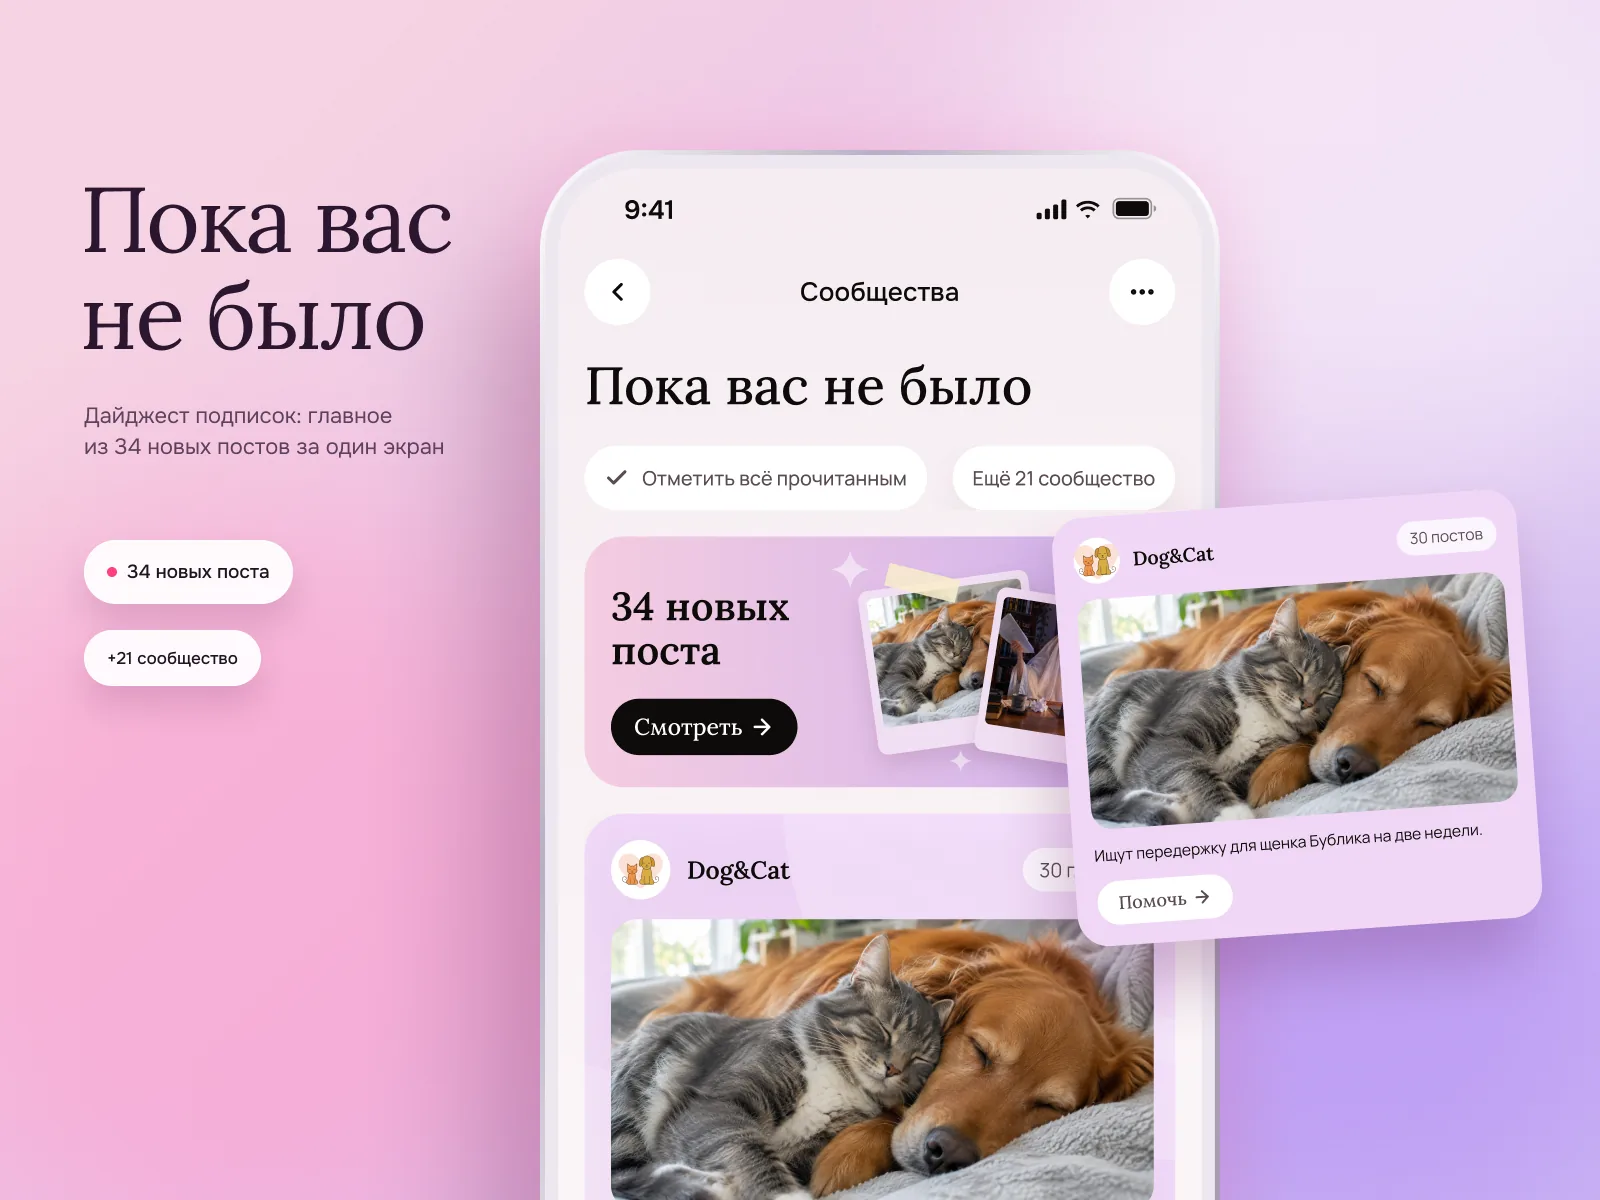
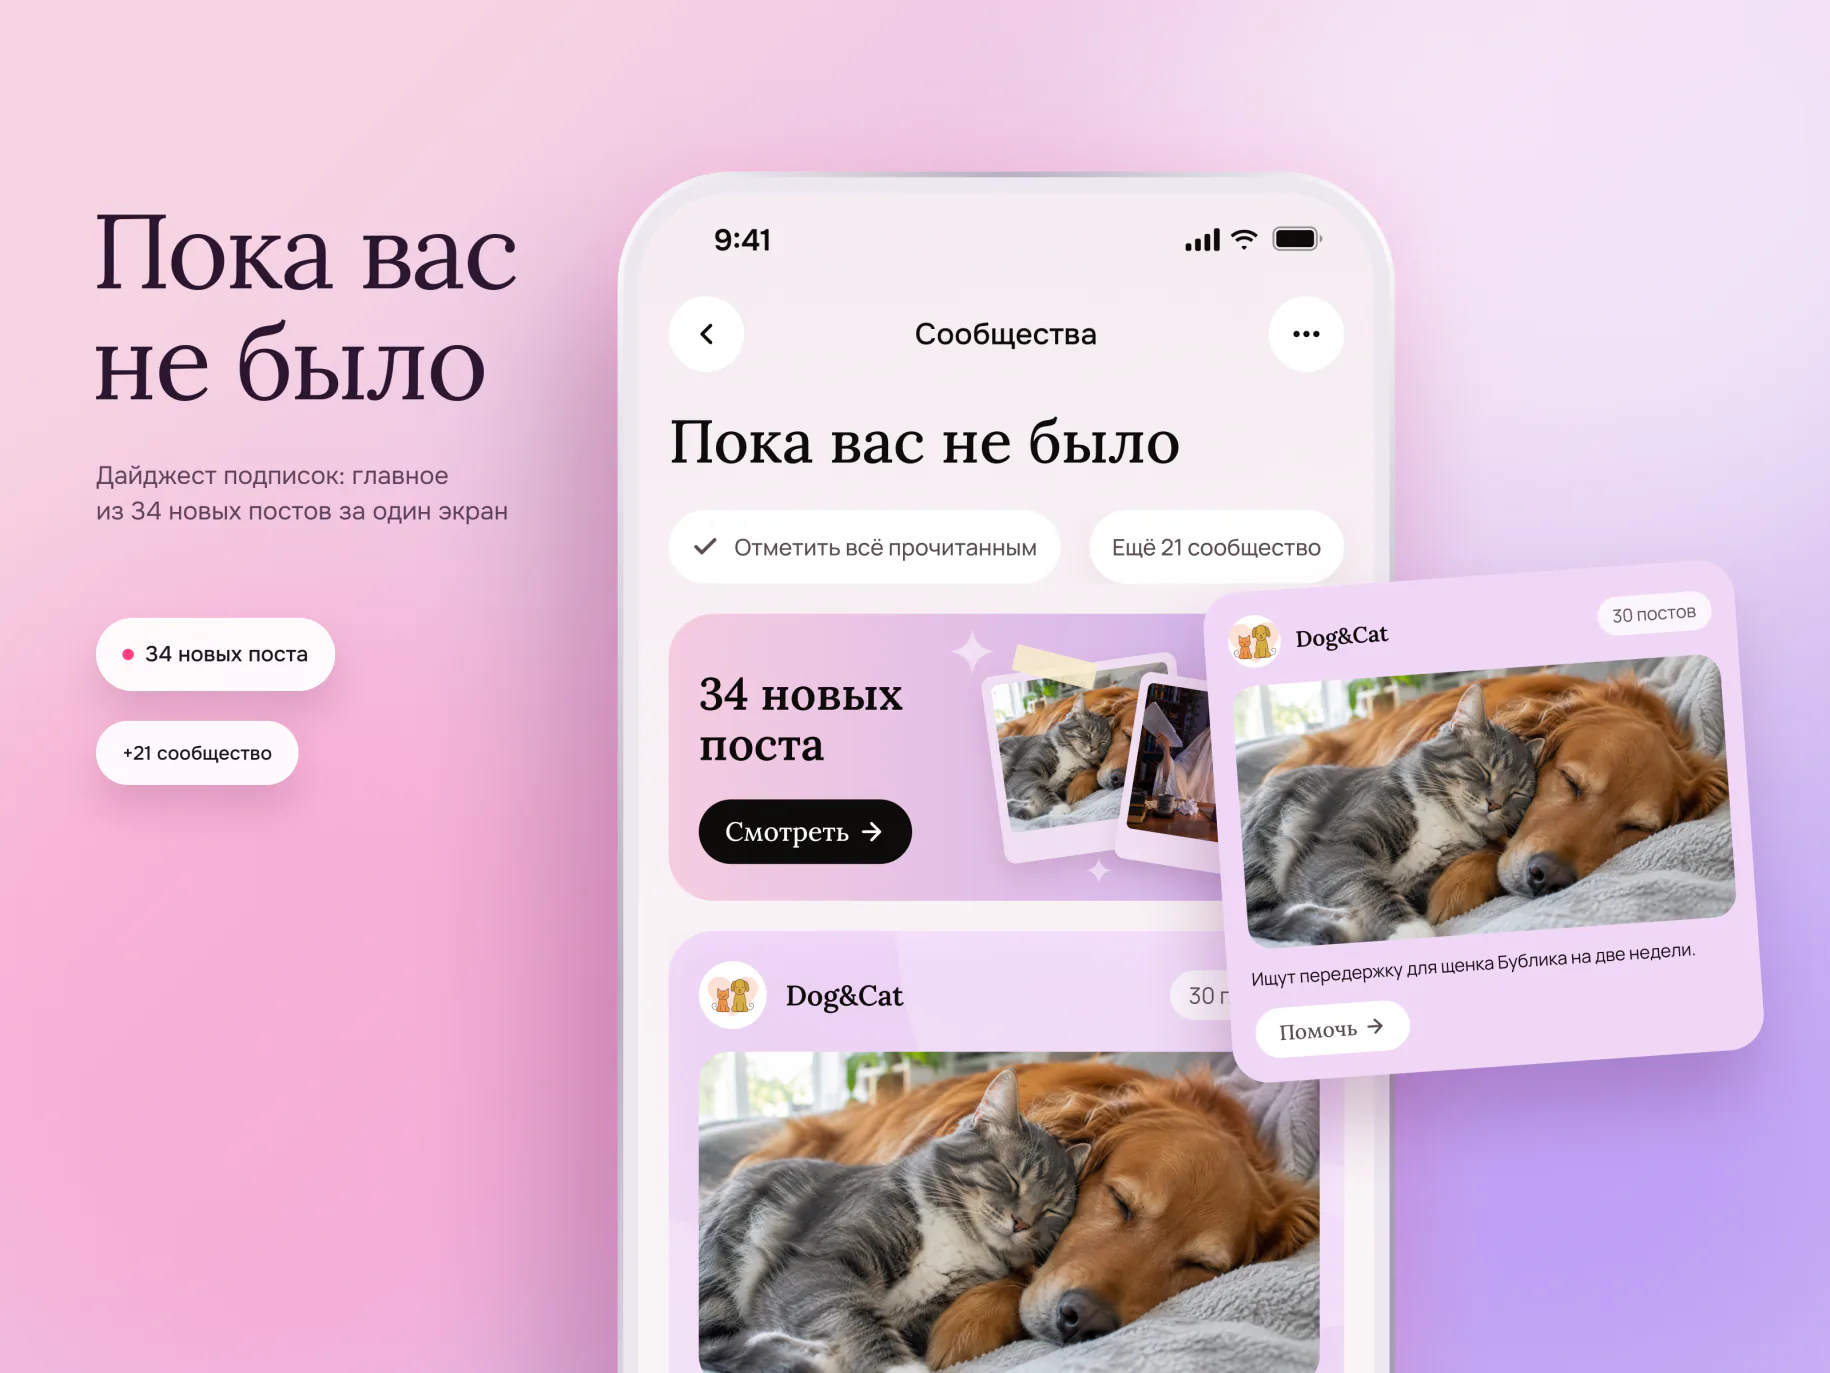
Концепты: мокапы «Сообществ» из экспорта 2x — 800/1200/1830px, резче на ретине

diff --git a/koncepty.html b/koncepty.html
@@ -45,11 +45,11 @@
     <section class="stack stack--24 w-914" id="soobshchestva">
       <div class="kon-set">
         <div class="kon-shots kon-shots--split">
-          <div class="pic"><img src="assets/img/koncepty/soobshchestva/mokap-1.webp" srcset="assets/img/koncepty/soobshchestva/mokap-1-800.webp 800w, assets/img/koncepty/soobshchestva/mokap-1.webp 1600w" sizes="(max-width: 960px) 100vw, 914px" width="1600" height="1200" loading="lazy" alt="Три экрана сообществ в изометрии: дайджест подписок, ИИ-помощник и страница бани"></div>
+          <div class="pic"><img src="assets/img/koncepty/soobshchestva/mokap-1.webp" srcset="assets/img/koncepty/soobshchestva/mokap-1-800.webp 800w, assets/img/koncepty/soobshchestva/mokap-1-1200.webp 1200w, assets/img/koncepty/soobshchestva/mokap-1.webp 1830w" sizes="(max-width: 960px) 100vw, 914px" width="1600" height="1200" loading="lazy" alt="Три экрана сообществ в изометрии: дайджест подписок, ИИ-помощник и страница бани"></div>
           <div class="kon-more" id="soobshchestva-more">
             <div>
-              <div class="pic"><img src="assets/img/koncepty/soobshchestva/mokap-2.webp" srcset="assets/img/koncepty/soobshchestva/mokap-2-800.webp 800w, assets/img/koncepty/soobshchestva/mokap-2.webp 1600w" sizes="(max-width: 960px) 100vw, 914px" width="1600" height="1200" loading="lazy" alt="ИИ-помощник подбирает бани из сообществ по запросу"></div>
-              <div class="pic"><img src="assets/img/koncepty/soobshchestva/mokap-3.webp" srcset="assets/img/koncepty/soobshchestva/mokap-3-800.webp 800w, assets/img/koncepty/soobshchestva/mokap-3.webp 1600w" sizes="(max-width: 960px) 100vw, 914px" width="1600" height="1200" loading="lazy" alt="Экран «Пока вас не было» с дайджестом подписок и вынесенной карточкой поста"></div>
+              <div class="pic"><img src="assets/img/koncepty/soobshchestva/mokap-2.webp" srcset="assets/img/koncepty/soobshchestva/mokap-2-800.webp 800w, assets/img/koncepty/soobshchestva/mokap-2-1200.webp 1200w, assets/img/koncepty/soobshchestva/mokap-2.webp 1830w" sizes="(max-width: 960px) 100vw, 914px" width="1600" height="1200" loading="lazy" alt="ИИ-помощник подбирает бани из сообществ по запросу"></div>
+              <div class="pic"><img src="assets/img/koncepty/soobshchestva/mokap-3.webp" srcset="assets/img/koncepty/soobshchestva/mokap-3-800.webp 800w, assets/img/koncepty/soobshchestva/mokap-3-1200.webp 1200w, assets/img/koncepty/soobshchestva/mokap-3.webp 1830w" sizes="(max-width: 960px) 100vw, 914px" width="1600" height="1200" loading="lazy" alt="Экран «Пока вас не было» с дайджестом подписок и вынесенной карточкой поста"></div>
             </div>
           </div>
         </div>
